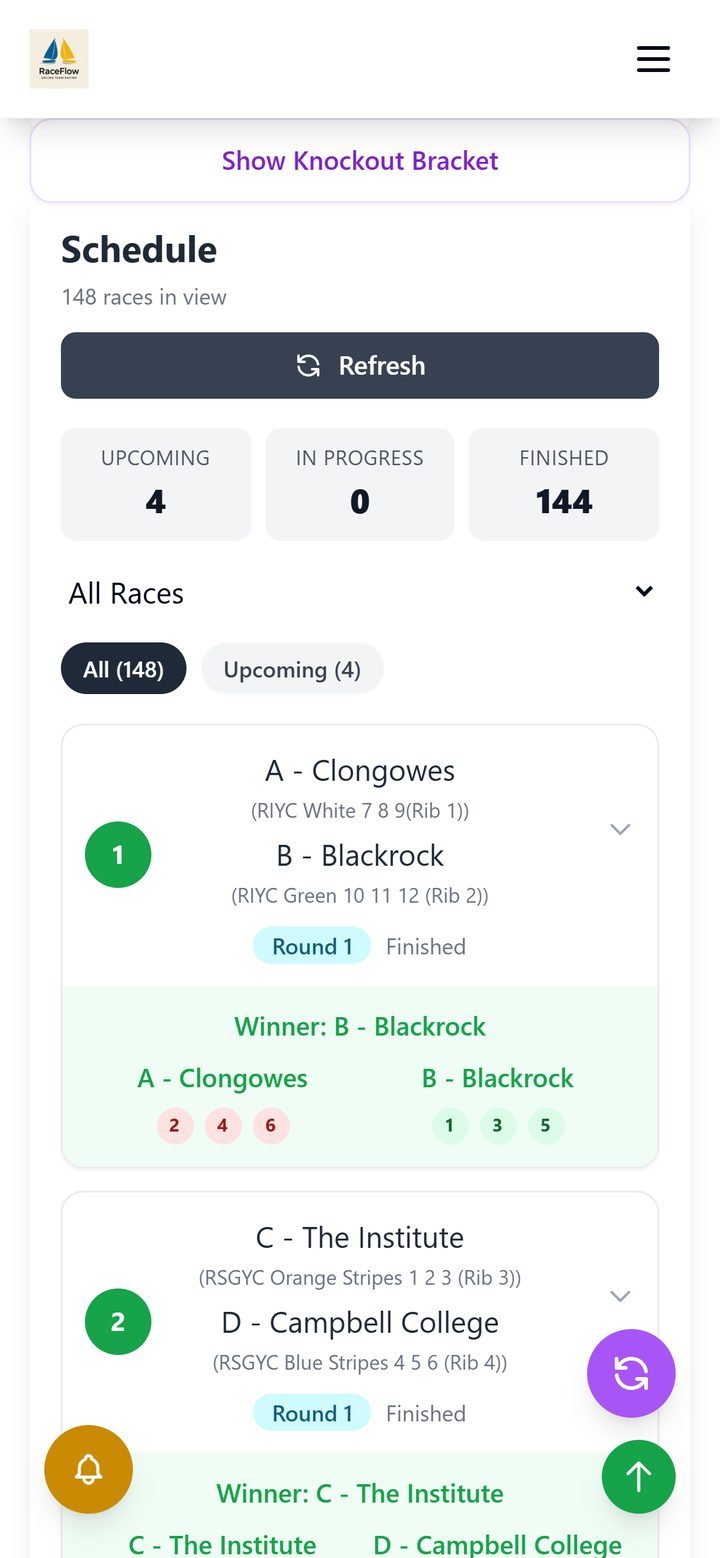
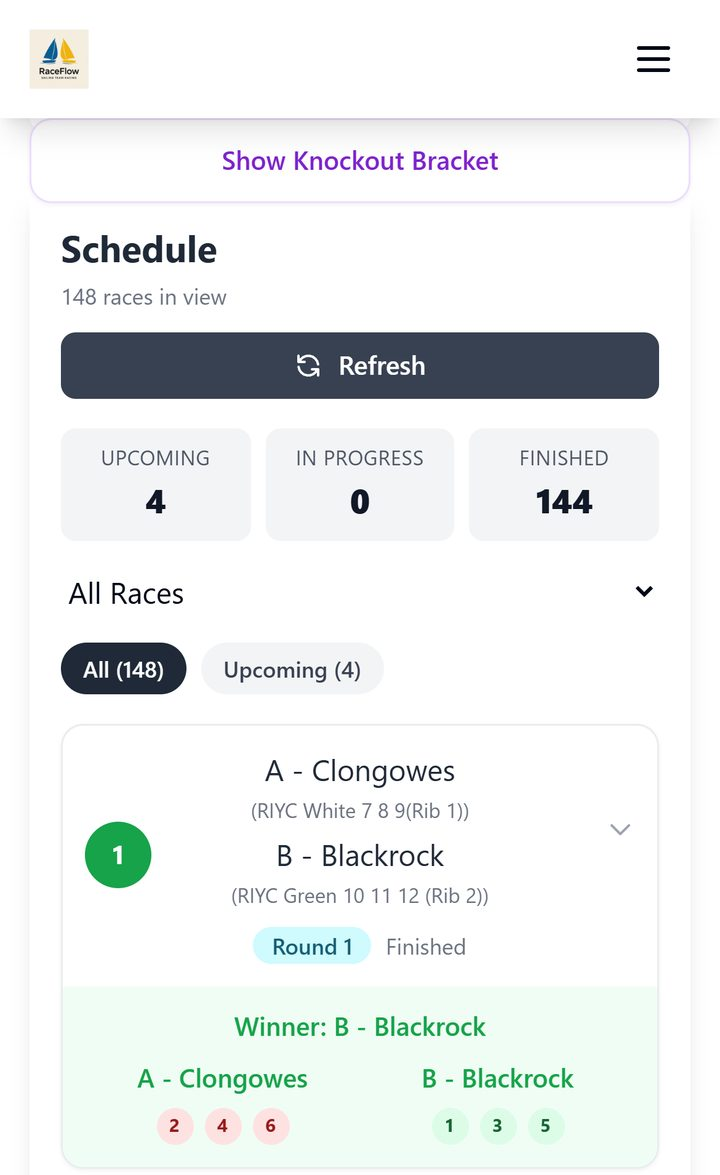
Show RaceFlow screenshots whole, in light mode
Each screenshot is now cropped at a natural boundary (end of a race card or
results row) and displayed in full inside a closed frame, instead of being
clipped by fixed-height CSS windows. Screenshots retaken in RaceFlow's light
theme. Renamed the club video library project.

diff --git a/assets/style.css b/assets/style.css
@@ -200,21 +200,25 @@ ul, ol { list-style: none; }
 .cell p { margin-top: 8px; color: var(--muted); font-size: .9688rem; line-height: 1.55; }
 .cell-copy { padding: clamp(22px, 2.4vw, 30px); }
 
-.cell-main   { grid-column: 1 / span 8; grid-row: 1; }
-.cell-phone  { grid-column: 9 / span 4; grid-row: 1 / span 2; background: var(--accent-soft); border-color: var(--accent-line); }
-.cell-bracket{ grid-column: 1 / span 4; grid-row: 2; }
-.cell-venues { grid-column: 5 / span 4; grid-row: 2; background: var(--bg-2); padding: clamp(22px, 2.4vw, 30px); }
+.cell-main   { grid-column: 1 / span 8; }
+.cell-phone  { grid-column: 9 / span 4; background: var(--accent-soft); border-color: var(--accent-line); }
+.cell-bracket{ grid-column: 1 / span 6; }
+.cell-venues { grid-column: 7 / span 6; background: var(--bg-2); padding: clamp(22px, 2.4vw, 30px); }
 
 .cell-main .cell-copy h3 { font-size: clamp(1.35rem, 2vw, 1.6rem); max-width: 26ch; }
 .cell-main .cell-copy p { max-width: 58ch; font-size: 1rem; }
-.cell-media { overflow: hidden; }
-.cell-media img { width: 100%; height: 100%; object-fit: cover; object-position: top center; transition: transform .6s var(--ease); }
-.cell-media-bleed {
-  margin: 0 clamp(22px, 2.4vw, 30px); height: clamp(220px, 24vw, 320px);
-  border: 1px solid var(--line); border-bottom: 0; border-radius: 10px 10px 0 0;
-  margin-top: auto;
+/* Screenshots are always shown whole: cropped at a card boundary in the image
+   itself, never clipped by CSS, and framed on all four sides. */
+.shot {
+  --inset: clamp(22px, 2.4vw, 30px);
+  border: 1px solid var(--line); border-radius: 10px; overflow: hidden;
+  background: #f7f8fa; box-shadow: var(--shadow);
+  transition: transform .5s var(--ease);
 }
-.cell-main:hover .cell-media img { transform: translateY(-10px); }
+.shot img { width: 100%; height: auto; }
+.shot-main { margin: auto var(--inset) var(--inset); }
+.shot-bracket { margin: var(--inset) var(--inset) 0; }
+.cell-main:hover .shot, .cell-bracket:hover .shot { transform: translateY(-4px); }
 
 .tags { display: flex; flex-wrap: wrap; gap: 6px; margin-top: 18px; }
 .tags li {
@@ -229,16 +233,14 @@ ul, ol { list-style: none; }
 .link-arrow:hover i { transform: translate(2px, -2px); }
 
 .phone-frame {
-  margin: auto clamp(22px, 2.4vw, 30px) 0;
-  border: 1px solid var(--accent-line); border-bottom: 0;
-  border-radius: 22px 22px 0 0; overflow: hidden;
-  max-height: 560px; background: #f7f8fa; /* RaceFlow shots are light mode */
+  margin: auto auto clamp(22px, 2.4vw, 30px);
+  width: calc(100% - 2 * clamp(22px, 2.4vw, 30px)); max-width: 300px;
+  border: 1px solid var(--accent-line); border-radius: 24px; overflow: hidden;
+  background: #f7f8fa; box-shadow: var(--shadow);
+  transition: transform .5s var(--ease);
 }
-.phone-frame img { width: 100%; object-fit: cover; object-position: top; transition: transform .6s var(--ease); }
-.cell-phone:hover .phone-frame img { transform: translateY(-12px); }
-
-.cell-bracket .cell-media { height: 220px; border-bottom: 1px solid var(--line); background: #f7f8fa; }
-.cell-bracket .cell-media img { object-position: center 18%; }
+.phone-frame img { width: 100%; height: auto; }
+.cell-phone:hover .phone-frame { transform: translateY(-4px); }
 
 .venues { margin-top: 18px; }
 .venues li {
@@ -247,6 +249,8 @@ ul, ol { list-style: none; }
 }
 .venues li + li { border-top: 1px solid var(--line); }
 .venues .mono { font-size: .8rem; }
+.cell-venues { display: flex; flex-direction: column; }
+.venues-foot { margin-top: auto; padding-top: 18px; color: var(--accent); font-size: .875rem; }
 
 /* ---------- other projects ---------- */
 .feature {
@@ -378,11 +382,12 @@ ul, ol { list-style: none; }
 
 /* ---------- tablet ---------- */
 @media (max-width: 1024px) {
-  .cell-main   { grid-column: 1 / -1; grid-row: auto; }
-  .cell-phone  { grid-column: 1 / span 6; grid-row: auto; }
-  .cell-bracket{ grid-column: 7 / span 6; grid-row: auto; }
-  .cell-venues { grid-column: 1 / -1; grid-row: auto; }
-  .phone-frame { max-height: 420px; }
+  .cell-main   { grid-column: 1 / -1; }
+  .cell-phone  { grid-column: 1 / -1; flex-direction: row; align-items: flex-end; }
+  .cell-phone .cell-copy { flex: 1; align-self: flex-start; }
+  .cell-phone .phone-frame { width: 280px; flex: none; margin: var(--gap) clamp(22px, 2.4vw, 30px) clamp(22px, 2.4vw, 30px) 0; }
+  .cell-bracket{ grid-column: 1 / span 6; }
+  .cell-venues { grid-column: 7 / span 6; }
   .projects .project:nth-child(n) { grid-column: 1 / -1; padding-left: 0; border-left: 0; }
   .project + .project { border-top: 1px solid var(--line); }
   .project { padding-bottom: 22px; }
@@ -403,7 +408,8 @@ ul, ol { list-style: none; }
 
   .bento { grid-template-columns: 1fr; }
   .cell-main, .cell-phone, .cell-bracket, .cell-venues { grid-column: 1 / -1; }
-  .cell-media-bleed { height: 300px; }
+  .cell-phone { flex-direction: column; align-items: stretch; }
+  .cell-phone .phone-frame { width: calc(100% - 44px); max-width: 300px; margin: 0 auto 22px; }
 
   .feature { grid-template-columns: 1fr; }
   .result { grid-template-columns: 1fr; gap: 6px; }

diff --git a/index.html b/index.html
@@ -104,12 +104,12 @@
             </ul>
             <a class="link-arrow" href="https://teamracing.xyz" rel="noopener">teamracing.xyz<i class="ph ph-arrow-up-right" aria-hidden="true"></i></a>
           </div>
-          <div class="cell-media cell-media-bleed">
+          <div class="shot shot-main">
             <picture>
-              <source media="(max-width: 767px)" type="image/webp" srcset="assets/img/rf-phone-schedule-720.webp">
-              <source media="(max-width: 767px)" srcset="assets/img/rf-phone-schedule-720.jpg">
+              <source media="(max-width: 767px)" type="image/webp" srcset="assets/img/rf-phone-schedule-720.webp" width="720" height="1175">
+              <source media="(max-width: 767px)" srcset="assets/img/rf-phone-schedule-720.jpg" width="720" height="1175">
               <source type="image/webp" srcset="assets/img/rf-schedule-800.webp 800w, assets/img/rf-schedule-1400.webp 1400w" sizes="(min-width: 900px) 58vw, 100vw">
-              <img src="assets/img/rf-schedule-800.jpg" width="1400" height="1212" loading="lazy" decoding="async"
+              <img src="assets/img/rf-schedule-800.jpg" width="1400" height="870" loading="lazy" decoding="async"
                    alt="RaceFlow schedule for the Irish Schools Nationals 2026, showing finished races with each boat's finishing positions and the winning team">
             </picture>
           </div>
@@ -123,18 +123,18 @@
           <div class="phone-frame">
             <picture>
               <source type="image/webp" srcset="assets/img/rf-phone-results-720.webp">
-              <img src="assets/img/rf-phone-results-720.jpg" width="720" height="1558" loading="lazy" decoding="async"
+              <img src="assets/img/rf-phone-results-720.jpg" width="720" height="1428" loading="lazy" decoding="async"
                    alt="RaceFlow final results on a phone: Schull 1 first, Schull 2 second, SAC 1 third">
             </picture>
           </div>
         </article>
 
         <article class="cell cell-bracket reveal">
-          <div class="cell-media">
+          <div class="shot shot-bracket">
             <picture>
               <source type="image/webp" srcset="assets/img/rf-bracket-900.webp">
-              <img src="assets/img/rf-bracket-900.jpg" width="900" height="1224" loading="lazy" decoding="async"
-                   alt="RaceFlow knockout bracket showing the four quarter-finals and their winners">
+              <img src="assets/img/rf-bracket-900.jpg" width="879" height="492" loading="lazy" decoding="async"
+                   alt="RaceFlow knockout bracket, quarter-final 1: Schull 1 beat Blackrock">
             </picture>
           </div>
           <div class="cell-copy">
@@ -152,6 +152,7 @@
             <li>ITRAS</li>
             <li>Nantucket Yacht Club <span class="mono muted">USA</span></li>
           </ul>
+          <p class="venues-foot mono">19 regattas, 2 countries</p>
         </article>
       </div>
     </section>
